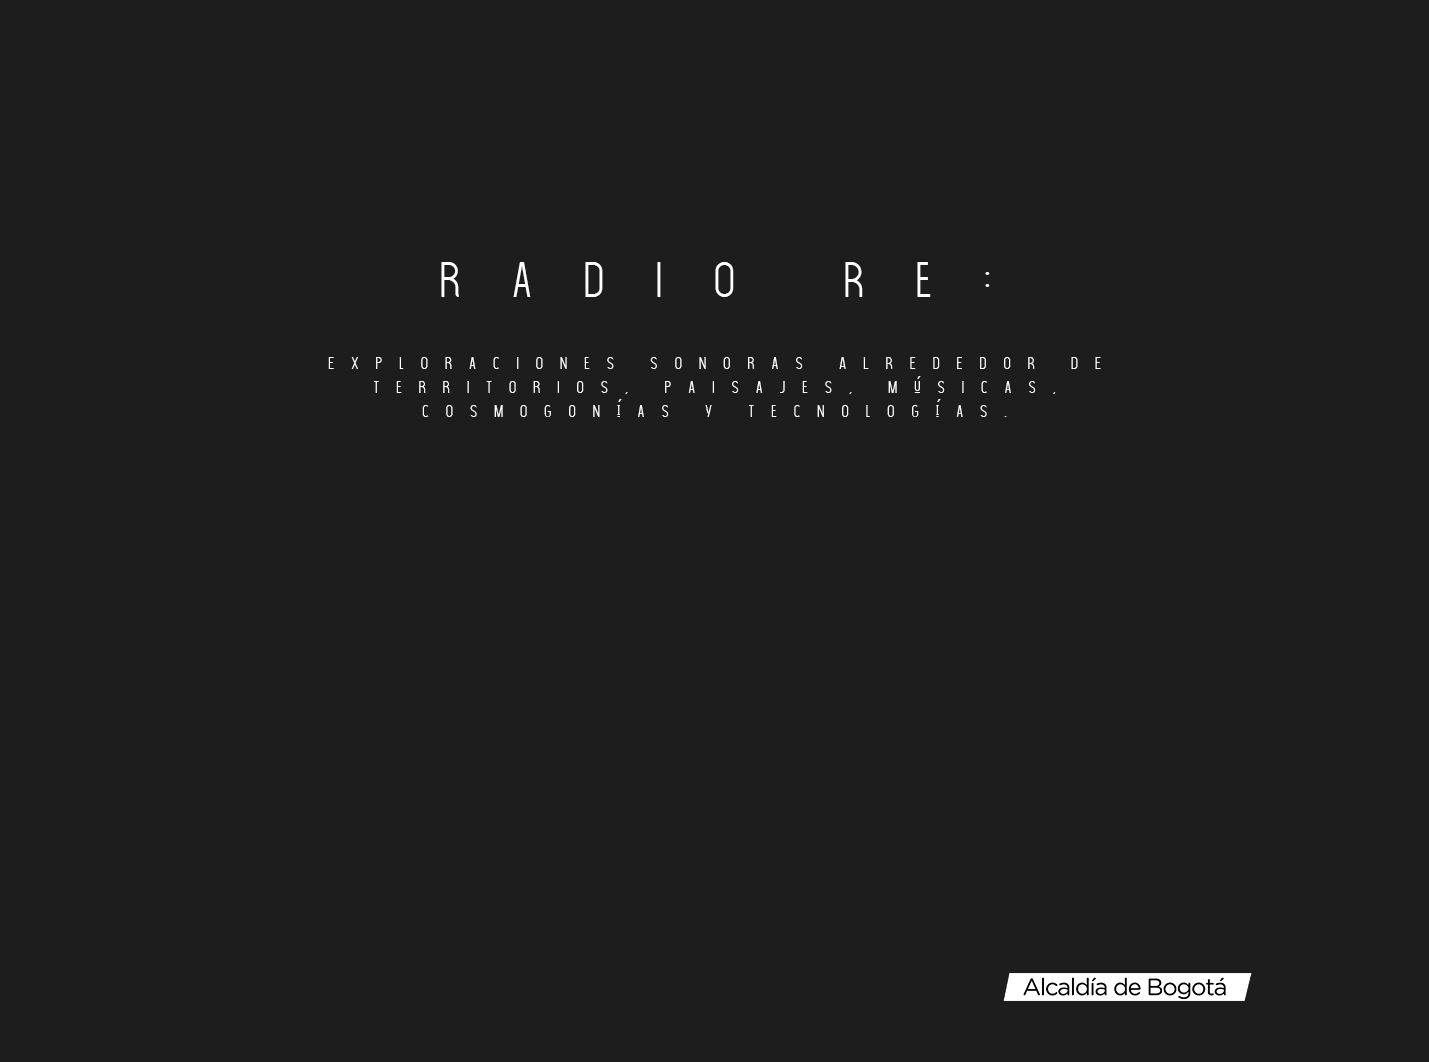
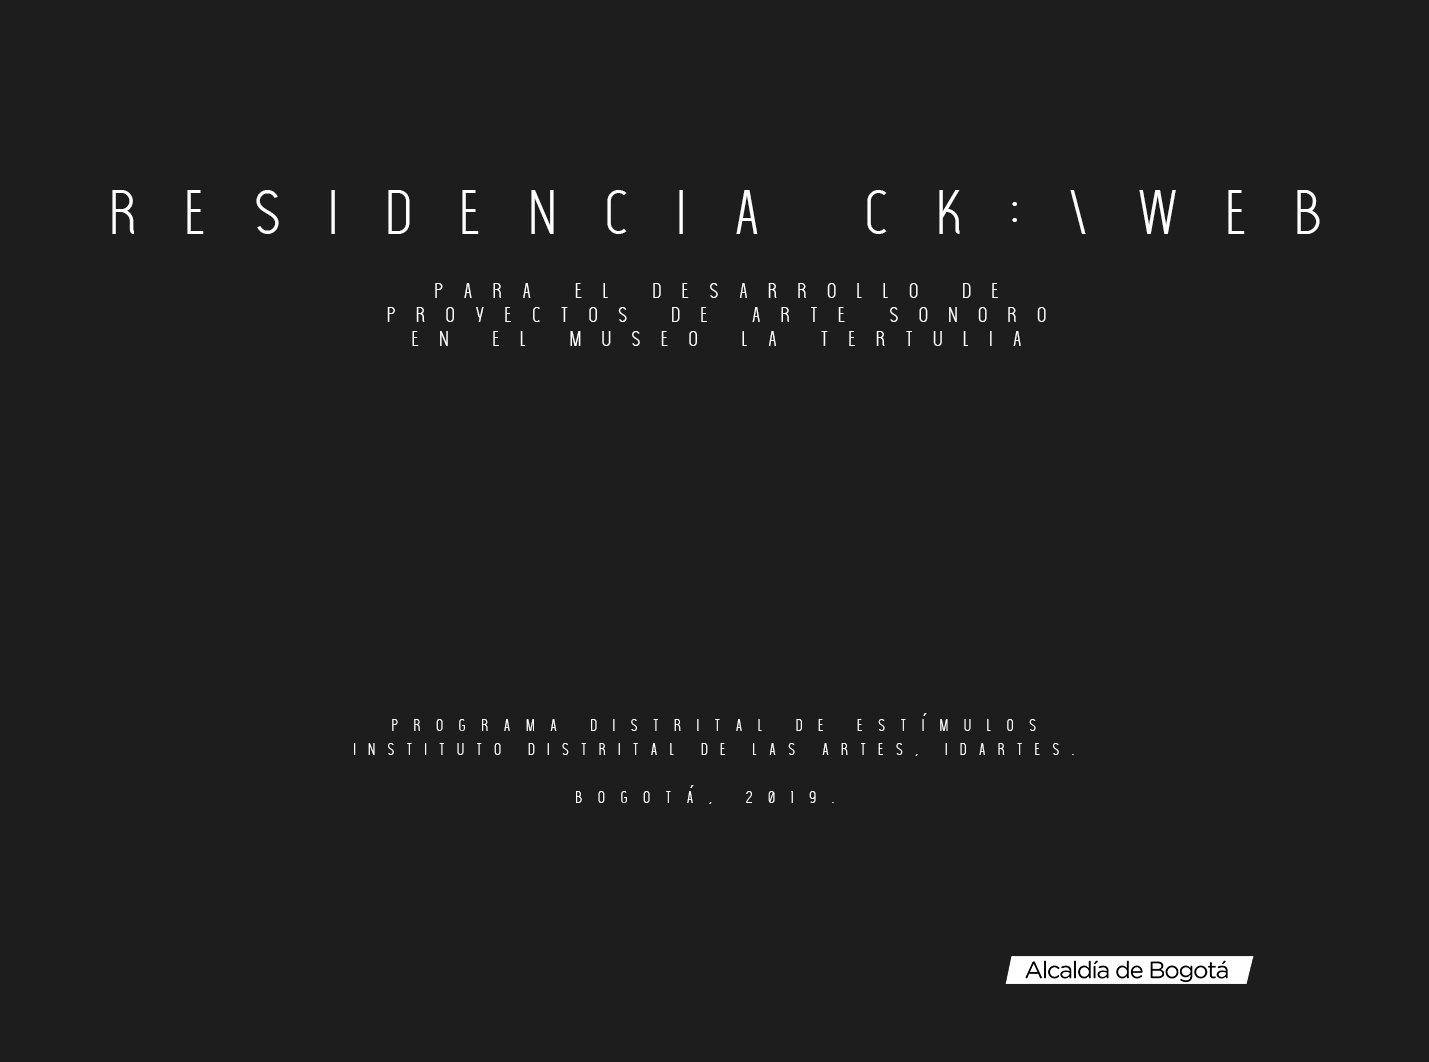
triunfocp

diff --git a/becas/index.html b/becas/index.html
@@ -62,7 +62,7 @@
             </div>
             <div class="item">
                 <div class="top">
-                    <div class="icon" data-img="./background.jpg" data-url="https://archive.org/download/herbarioradialancestral/HERBARIO%20RADIAL%20%28Ancestral%29.mp3" data-id="4"></div>
+                    <div class="icon" data-img="./background.jpg" data-url="https://archive.org/download/2.herbarioradialancestral/2.%20Herbario%20radial-ANCESTRAL.mp3" data-id="4"></div>
                     <div class="name">Herbario Radial (Ancestral) 
                         <div class="description">Por Andariegos Radio.</div>
                     </div>
@@ -71,7 +71,7 @@
             </div>
             <div class="item">
                 <div class="top">
-                    <div class="icon" data-img="./background.jpg" data-url="https://archive.org/download/herbarioradialfitoterapia/HERBARIO%20RADIAL%20%28Fitoterapia%29.mp3" data-id="5"></div>
+                    <div class="icon" data-img="./background.jpg" data-url="https://archive.org/download/3.herbarioradialfitoterapia/3.%20Herbario%20radial-FITOTERAPIA.mp3" data-id="5"></div>
                     <div class="name">Herbario Radial (Fitoterapia) 
                         <div class="description">Por Andariegos Radio.</div>
                     </div>
@@ -80,7 +80,7 @@
             </div>
             <div class="item">
                 <div class="top">
-                    <div class="icon" data-img="./background.jpg" data-url="https://archive.org/download/herbarioradialsensitivo/HERBARIO%20RADIAL%20%28Sensitivo%29.mp3" data-id="6"></div>
+                    <div class="icon" data-img="./background.jpg" data-url="https://archive.org/download/1.herbarioradialsensitivo/1.%20Herbario%20radial-%20SENSITIVO.mp3" data-id="6"></div>
                     <div class="name">Herbario Radial (Sensitivo) 
                         <div class="description">Por Andariegos Radio.</div>
                     </div>

diff --git a/triunfocristalpaez/index.html b/triunfocristalpaez/index.html
@@ -15,17 +15,17 @@
     <script type='text/javascript' src='./js/p5sound.js'></script>
     <script src="https://ajax.googleapis.com/ajax/libs/jquery/3.4.1/jquery.min.js"></script>
 
-    <title>radioRe: | CK\Web</title>
+    <title>M W E S E ' J</title>
   </head>
   <body>
     <div class="App">
         <div class="left">
             <div class="top">
-                <br>radioRe:<br>
+                <br>M W E S E ' J<br>
                 <br>
-                Creaciones radiofónicas comisionadas por CK:\WEB, Bogotá - Colombia, 2019. 
+                Acercándonos al mundo nasa a través de su universo sonoro - León David Cobo. Proyecto Ganador de la Residencia CK:\WEB para el desarrollo de proyectos de arte sonoro en el Museo La Tertulia (Cali), 2019. 
             </div>
-            <div class="item">
+           <!-- <div class="item">
                 <div class="top">
                     <div class="icon" data-img="./back-eigengrau1.jpg" data-url="https://archive.org/download/eugengrau1masterwav9624/Eigengrau%20Episodio%201%20con%20cre%CC%81ditos.mp3" data-id="0"></div>
                     <div class="name">Eigengrau episodio 1: Páramo Grande
@@ -52,6 +52,7 @@
                 </div>
                 <div class="des"></div>
             </div>
+            -->
         </div>
         <div class="right">
             <div class="backImg"></div>
